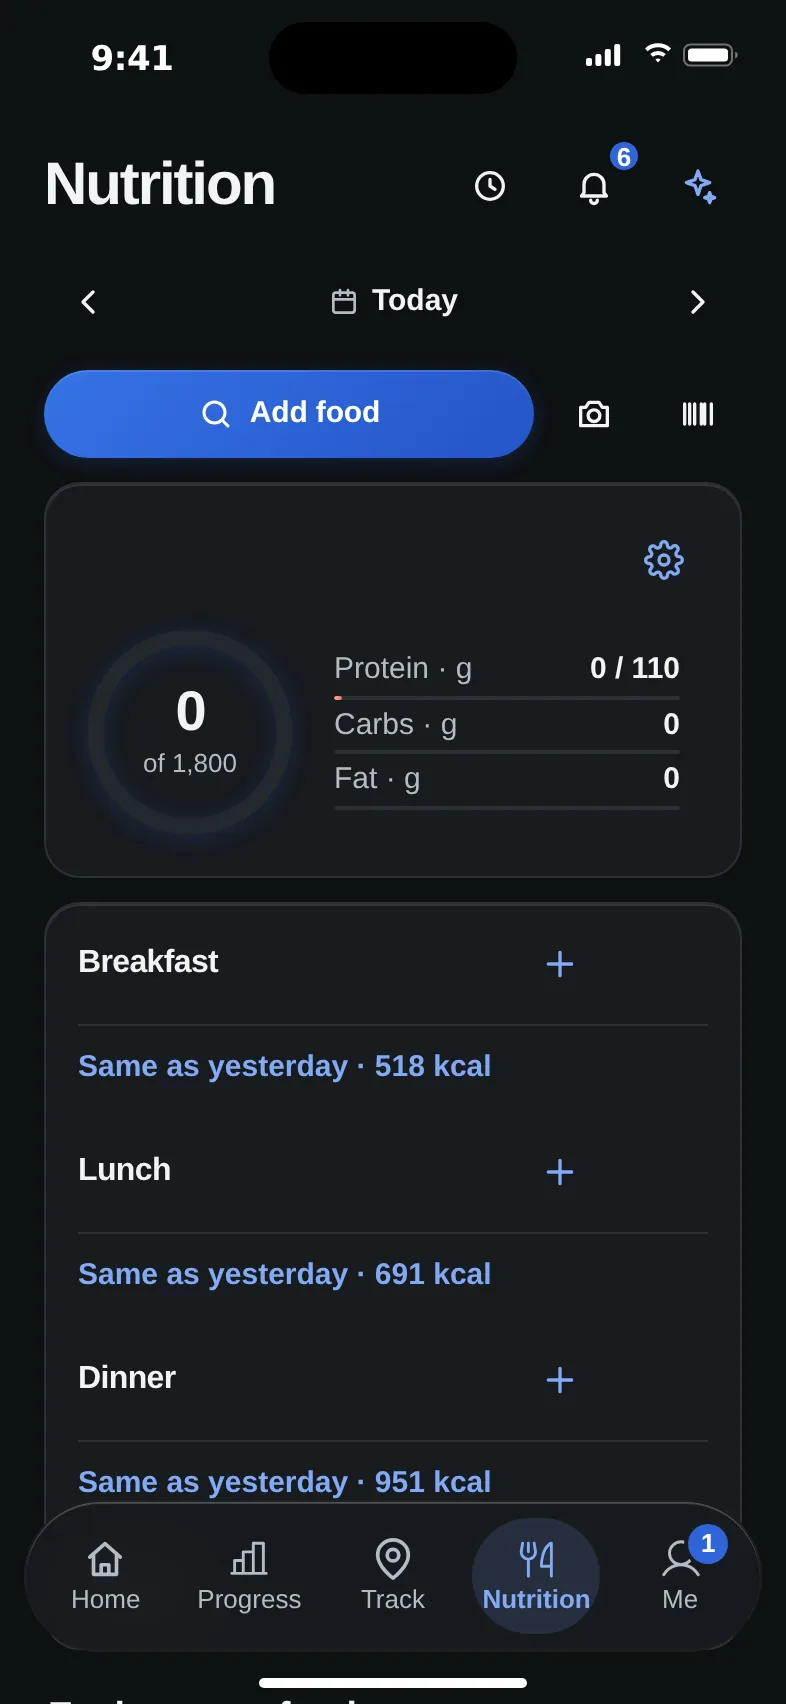
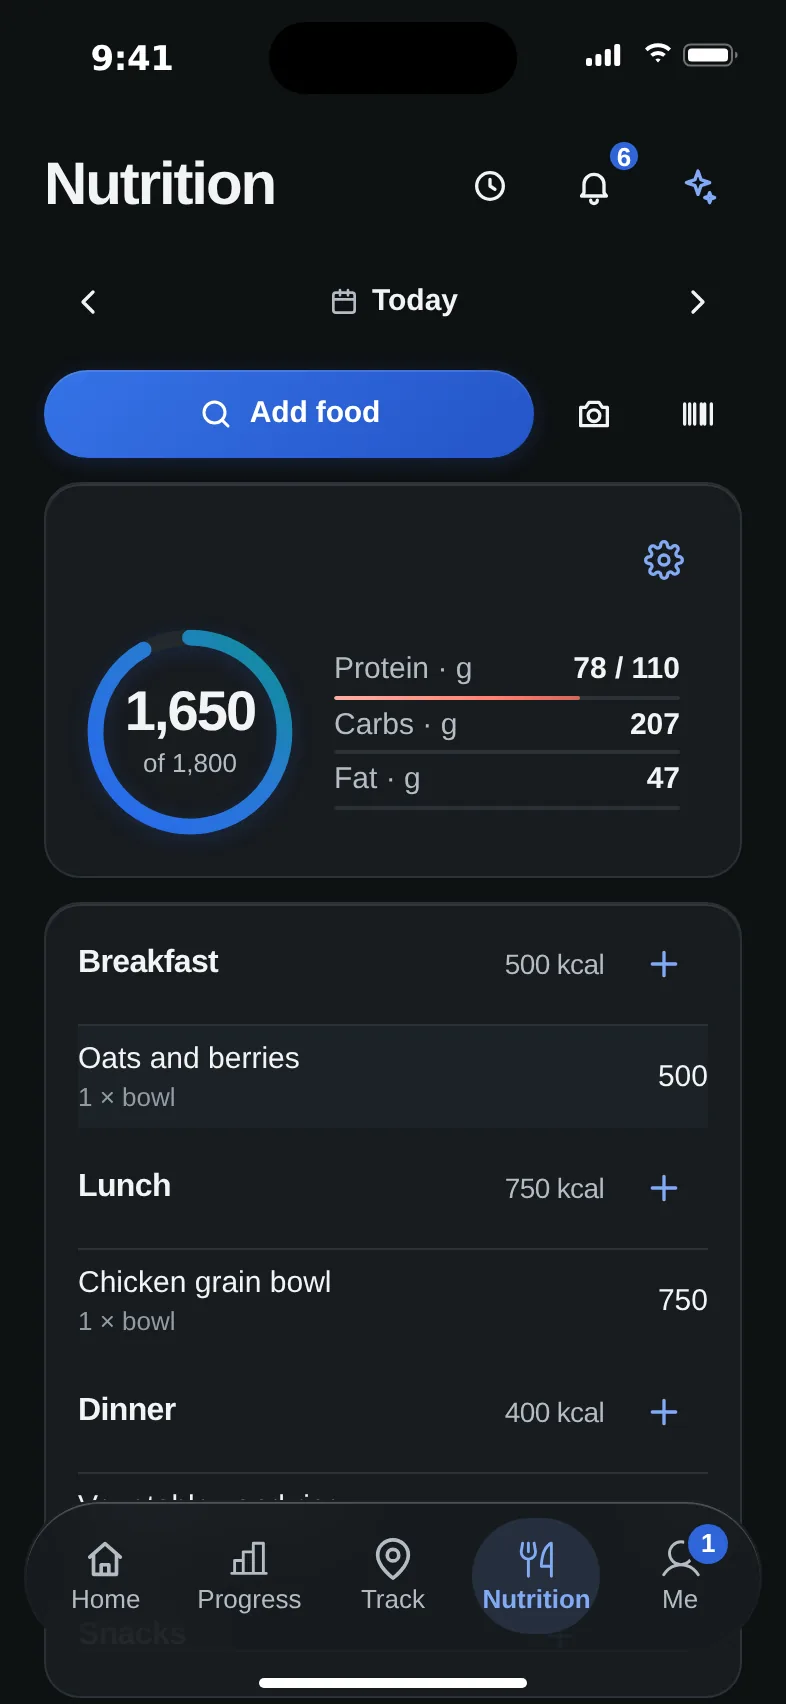
site: add food, training and Kit proof to Home

diff --git a/site/index.html b/site/index.html
@@ -23,7 +23,7 @@
 <link rel="preconnect" href="https://fonts.gstatic.com" crossorigin>
 <link rel="stylesheet" href="https://fonts.googleapis.com/css2?family=Figtree:wght@400;500;600&family=JetBrains+Mono:wght@400;500&display=swap">
 <link rel="stylesheet" href="assets/theme.css?v=9">
-<link rel="stylesheet" href="assets/site.css?v=27">
+<link rel="stylesheet" href="assets/site.css?v=28">
 </head>
 <body class="website-tour home-page">
 <a class="skip-link" href="#main">Skip to content</a>
@@ -54,15 +54,12 @@
 
 <main id="main">
 <section class="home-hero" aria-labelledby="home-title"><div class="wrap home-hero-grid"><div class="home-hero-copy"><span class="eyebrow">Food and training, one app</span><h1 id="home-title">What you eat. How you train. One picture.</h1><p class="lede">Kinetta brings meals and workouts together, with Kit to help make sense of your numbers.</p><a class="btn solid" href="compare">See how it works</a><a class="home-beta-link" href="https://testflight.apple.com/join/YAX1JnwB">Join the iPhone beta <span aria-hidden="true">→</span></a></div><div class="home-hero-art"><div class="phone-frame phone-frame--hero"><picture><source srcset="assets/shots/home-day-standin-dark.svg" media="(prefers-color-scheme: dark)"><img src="assets/shots/home-day-standin-light.svg" alt="Website stand-in composition from separate fictional Nutrition, Activity and Kit screens: a partly filled food ring, three meals, a Morning Run, and a Kit note." width="393" height="852"></picture></div><p class="standin-caption">Stand-in scene · composed from separate app screens</p></div></div></section>
-<section class="home-story" aria-labelledby="story-title"><div class="wrap home-story-grid"><div class="story-pin" aria-live="polite"><div class="phone-frame phone-frame--story"><picture><source data-story-dark srcset="assets/shots/dark-feed.webp" media="(prefers-color-scheme: dark)"><img data-story-screen src="assets/shots/light-feed.webp" alt="Fictional Kinetta Home feed with a varied week and a Morning Run." width="786" height="1704"></picture></div></div><div class="story-steps"><h2 id="story-title">See the whole picture.</h2>
-<article class="story-step is-visible" id="story-feed" data-screen="feed"><div><span class="eyebrow">Feed</span><h3>Review a workout</h3><p>The route, then the numbers.</p></div><div class="step-phone"><div class="phone-frame"><picture><source srcset="assets/shots/dark-feed.webp" media="(prefers-color-scheme: dark)"><img src="assets/shots/light-feed.webp" alt="Fictional Kinetta Home feed with a varied week and a Morning Run." width="786" height="1704" loading="lazy"></picture></div></div></article>
-<article class="story-step" id="story-activity" data-screen="activity"><div><span class="eyebrow">Activity</span><h3>Map first. Numbers below.</h3><p>Open a saved workout to see its route, time and pace.</p></div><div class="step-phone"><div class="phone-frame"><picture><source srcset="assets/shots/dark-activity.webp" media="(prefers-color-scheme: dark)"><img src="assets/shots/light-activity.webp" alt="Fictional Kinetta Activity detail with a Morning Run map and workout numbers." width="786" height="1704" loading="lazy"></picture></div></div></article>
-<article class="story-step" id="story-food" data-screen="food"><div><span class="eyebrow">Food</span><h3>Say what you ate.</h3><p>Kit turns a short note into a reviewable meal and weigh-in.</p><div class="kit-demo" data-kit-demo><p class="kit-line" data-kit-line>2 eggs and toast, weighed 165 this morning</p><p class="kit-response" data-kit-response>Review the foods and the weigh-in before you save.</p><button class="text-button" type="button" data-kit-replay>Replay chat</button></div></div><div class="step-phone"><div class="phone-frame"><picture><source srcset="assets/shots/dark-talk.webp" media="(prefers-color-scheme: dark)"><img src="assets/shots/light-talk.webp" alt="Fictional Kinetta Nutrition screen with a Kit food conversation." width="786" height="1704" loading="lazy"></picture></div></div></article>
-<article class="story-step" id="story-progress" data-screen="progress"><div><span class="eyebrow">Progress</span><h3>Watch the trend move.</h3><p>Switch time range or sport without leaving the chart.</p></div><div class="step-phone"><div class="phone-frame"><picture><source srcset="assets/shots/dark-progress.webp" media="(prefers-color-scheme: dark)"><img src="assets/shots/light-progress.webp" alt="Fictional Kinetta Progress chart with weekly running totals." width="786" height="1704" loading="lazy"></picture></div></div></article>
-<article class="story-step" id="story-achievements" data-screen="achievements"><div><span class="eyebrow">Achievements</span><h3>Keep the next badge in sight.</h3><p>Earned levels stay bright while the next goal fills in as you scroll.</p><div class="achievement-mini" data-achievements><div><span>Run · Marathon</span><b><i data-achievement-bar style="--fill:0%"></i></b></div><div><span>Workouts · Grove</span><b><i data-achievement-bar style="--fill:0%"></i></b></div></div></div><div class="step-phone"><div class="phone-frame"><picture><source srcset="assets/shots/dark-profile.webp" media="(prefers-color-scheme: dark)"><img src="assets/shots/light-profile.webp" alt="Fictional Kinetta profile with weekly totals and featured achievements." width="786" height="1704" loading="lazy"></picture></div></div></article></div></div></section>
-<section class="progress-demo" id="progress-demo" aria-labelledby="progress-title"><div class="wrap"><div class="progress-demo-copy"><span class="eyebrow">Interactive demo</span><h2 id="progress-title">Find your rhythm.</h2><p>Change the range or sport. The numbers follow.</p></div><div class="progress-demo-mount" data-progress-demo-mount aria-label="Progress chart demo"></div></div></section>
-<div hidden>Log what you eat Every food and amount, with daily totals. Choose who sees your workouts. Set a default, or change one workout.</div>
-<section class="tour-final"><div class="wrap"><h2>Start tracking.</h2><a class="btn solid" href="https://login.kinetta.app/signup">Get started</a></div></section>
+<section class="home-proof" aria-labelledby="proof-title"><div class="wrap"><header class="home-section-head"><span class="eyebrow">Food and training</span><h2 id="proof-title">A full day, from meal to mile.</h2></header><div class="home-proof-grid">
+<article class="home-proof-card" id="home-food"><div class="home-proof-copy"><span class="eyebrow">Nutrition</span><h3>Log a meal in a sentence.</h3><p>See meals, calories and macros together as the day fills in.</p></div><div class="home-proof-phone"><div class="phone-frame"><picture><source srcset="assets/shots/dark-nutrition-filled.webp" media="(prefers-color-scheme: dark)"><img src="assets/shots/light-nutrition-filled.webp" alt="Fictional Kinetta Nutrition day with a partly filled calorie ring, meals and macro totals." width="786" height="1704" loading="lazy"></picture></div></div></article>
+<article class="home-proof-card" id="home-activity"><div class="home-proof-copy"><span class="eyebrow">Training</span><h3>Every run, with its map and splits.</h3><p>Open a saved workout to see its route, time and pace.</p></div><div class="home-proof-phone"><div class="phone-frame"><picture><source srcset="assets/shots/dark-activity-detail.webp" media="(prefers-color-scheme: dark)"><img src="assets/shots/light-activity-detail.webp" alt="Fictional Kinetta Activity detail showing a route map, run stats and splits." width="786" height="1704" loading="lazy"></picture></div></div></article>
+</div></div></section>
+<section class="home-kit-chat" aria-labelledby="kit-food-title"><div class="wrap home-feature-split"><div class="home-feature-copy"><span class="eyebrow">Kit food chat</span><h2 id="kit-food-title">Tell Kit what you ate.</h2><p>Describe food and weight in one message. Review both before adding them.</p></div><div class="home-feature-phone"><div class="phone-frame"><picture><source srcset="assets/shots/dark-kit-food-chat.webp" media="(prefers-color-scheme: dark)"><img src="assets/shots/light-kit-food-chat.webp" alt="Fictional Kit food review with eggs, toast, a 165 pound weigh-in and an Add food and weight action." width="786" height="1704" loading="lazy"></picture></div><p class="home-shot-note">Fictional meal and weigh-in review</p></div></div></section>
+<section class="home-kit-insights" aria-labelledby="kit-insights-title"><div class="wrap home-feature-split home-feature-split--reverse"><div class="home-feature-copy"><span class="eyebrow">Kit insights</span><h2 id="kit-insights-title">Kit connects the dots.</h2><p>Ask about your recorded workouts, strength and nutrition. Kit explains what the records can show.</p><div class="home-kit-prompts"><h3>Try asking</h3><ul><li>Am I improving?</li><li>Look at my consistency</li><li>Choose a focus</li></ul></div></div><div class="home-feature-phone"><div class="phone-frame"><picture><source srcset="assets/shots/dark-kit-insight-progress.webp" media="(prefers-color-scheme: dark)"><img src="assets/shots/light-kit-insight-progress.webp" alt="Fictional Kit progress conversation comparing the current run week with recent recorded weeks." width="786" height="1704" loading="lazy"></picture></div><p class="home-shot-note">Fictional Kit example with demo records</p></div></div></section>
 </main>
 
 <footer>
@@ -75,8 +72,7 @@
     </div>
   </div>
 </footer>
-<script src="assets/home.js?v=1" defer></script>
-<script src="assets/progress-demo.js?v=1" defer></script>
+<script src="assets/home.js?v=2" defer></script>
 <script src="assets/zoom.js?v=4" defer></script>
 <script src="assets/daily-preview.js?v=2" defer></script>
 </body>

diff --git a/dev/screenshots/take.js b/dev/screenshots/take.js
@@ -10,6 +10,8 @@ const SCREENSHOT_CLOCK = require('./fixture-time.json');
 const SHOTS = require('./scenes.json');
 // ONLY=lift,liftex takes just those (new shots, without retaking every other picture)
 const ONLY = process.env.ONLY ? process.env.ONLY.split(',') : null;
+const MAP_SHOTS = new Set(['home-feed','activity-detail','feed','activity','activity-splits','route']);
+const NEEDS_MAP = !ONLY || ONLY.some(name => MAP_SHOTS.has(name));
 const W = 393, H = 852, TOP = 59, BOTTOM = 34;
 async function enableKitForDemo(page) {
   // Kit requires the person's explicit opt-in; this is only the fictional screenshot account.
@@ -161,19 +163,21 @@ async function closeCaptureContext(context) {
     const ctx = await browser.newContext({viewport: {width: W, height: H}, deviceScaleFactor: 2, colorScheme: scheme,
       timezoneId: SCREENSHOT_CLOCK.timezone});
     let foodChatCtx = null, foodChatPage = null, foodRepeatCtx = null, foodRepeatPage = null;
-    const basemap = await (await ctx.request.get(B+'/api/map-config')).json();
-    if(!['pmtiles','vector'].includes(basemap.kind))throw Error('Capture needs an operator-controlled vector basemap');
-    // The public archive admits the published app origin. Adapt only CORS for this local demo;
-    // the range bytes and map renderer stay unchanged, and no production setting is edited.
-    const archiveOrigin = new URL(basemap.url).origin;
-    const publishedOrigin = process.env.KINETTA_SCREENSHOT_MAP_ORIGIN || 'https://login.kinetta.app';
-    await ctx.route(archiveOrigin+'/**',async route=>{
-      const request=route.request();
-      if(!['GET','HEAD'].includes(request.method())||basemap.kind==='pmtiles'&&request.method()==='GET'&&!request.headers().range)return route.abort();
-      const response=await route.fetch({headers:{...request.headers(),origin:publishedOrigin,referer:publishedOrigin+'/'}});
-      if(!response.ok())throw Error('Approved capture map source returned HTTP '+response.status());
-      await route.fulfill({response,headers:{...response.headers(),'access-control-allow-origin':new URL(B).origin,'access-control-expose-headers':'content-range,content-length,etag'}});
-    });
+    if(NEEDS_MAP){
+      const basemap = await (await ctx.request.get(B+'/api/map-config')).json();
+      if(!['pmtiles','vector'].includes(basemap.kind))throw Error('Capture needs an operator-controlled vector basemap');
+      // The public archive admits the published app origin. Adapt only CORS for this local demo;
+      // the range bytes and map renderer stay unchanged, and no production setting is edited.
+      const archiveOrigin = new URL(basemap.url).origin;
+      const publishedOrigin = process.env.KINETTA_SCREENSHOT_MAP_ORIGIN || 'https://login.kinetta.app';
+      await ctx.route(archiveOrigin+'/**',async route=>{
+        const request=route.request();
+        if(!['GET','HEAD'].includes(request.method())||basemap.kind==='pmtiles'&&request.method()==='GET'&&!request.headers().range)return route.abort();
+        const response=await route.fetch({headers:{...request.headers(),origin:publishedOrigin,referer:publishedOrigin+'/'} });
+        if(!response.ok())throw Error('Approved capture map source returned HTTP '+response.status());
+        await route.fulfill({response,headers:{...response.headers(),'access-control-allow-origin':new URL(B).origin,'access-control-expose-headers':'content-range,content-length,etag'}});
+      });
+    }
     const page = await ctx.newPage();
     await page.addInitScript(() => { window.__KINETTA_SCREENSHOT_MODE__ = true; });
     await page.clock.setFixedTime(new Date(SCREENSHOT_CLOCK.instant));
@@ -210,6 +214,26 @@ async function closeCaptureContext(context) {
     });
     for (const [name, path, opt = {}] of SHOTS) {
       if (ONLY && !ONLY.includes(name)) continue;
+      const kitInsightRoute = /\/api\/coach\/conversation(?:\/.*)?(?:\?.*)?$/;
+      const kitInsightFixture = name === 'kit-insight-progress';
+      if (kitInsightFixture) await page.route(kitInsightRoute, async route => {
+        const request = route.request(), url = new URL(request.url());
+        if (request.method() === 'POST' && url.pathname === '/api/coach/conversation/visits') {
+          const visit_id = request.postDataJSON().visit_id;
+          return route.fulfill({json: {generation: '00000000-0000-4000-8000-000000001049', visit_id, ready: true}});
+        }
+        if (request.method() === 'GET' && url.pathname === '/api/coach/conversation') {
+          const visit_id = url.searchParams.get('visit_id');
+          return route.fulfill({json: {generation: '00000000-0000-4000-8000-000000001049', visit_id, before: null, ready: true,
+            messages: [{id: 1, client_id: '1049-progress-insight', generation: '00000000-0000-4000-8000-000000001049', visit_id,
+              question: 'Am I improving?', context: {screen: 'progress'}, state: 'answered', error: null,
+              answer: {interpretation: 'Your latest run total is below your recent average; this chart also shows stronger weeks. One week alone cannot establish a lasting trend.',
+                facts: [{label: 'This week · Run', value: '10.8 mi'}, {label: 'Weekly average · Run', value: '20.6 mi'}, {label: 'Best week · Run', value: '27.9 mi'}],
+                limitations: ['Only recorded workouts are included.'], actions: []}, created: '2026-11-13T14:00:00Z'}]}});
+        }
+        if (request.method() === 'POST' && url.pathname.endsWith('/end')) return route.fulfill({json: {ok: true}});
+        return route.fulfill({status: 404, json: {detail: 'Unneeded screenshot fixture request.'}});
+      });
       if (opt.foodChat === 'ready') {
         const demo = await openFoodDemo(`zz_test_658_chat_${scheme}`, scheme);
         foodChatCtx = demo.context;
@@ -298,8 +322,22 @@ async function closeCaptureContext(context) {
         await foodRepeatPage.screenshot({path: `${OUT}/${scheme}-${name}.png`});
         continue;
       }
+      if (kitInsightFixture) await page.evaluate(() => {
+        App.me.ai_ok = true; App.me.ai_paused = false; App.me.kit_chat = true; App.me.coach = true;
+        App.me.ai_access ||= {}; App.me.ai_access.coach = {available: true, entitled: true};
+      });
       await page.evaluate((p) => { document.querySelectorAll('.scrim').forEach((x) => x.remove()); document.body.classList.remove('has-sheet'); window.scrollTo(0, 0); go(p); }, ids[path] || path);   // no sheet left open from the shot before
       await page.waitForTimeout(1500);
+      if (name === 'nutrition-filled') {
+        await page.locator('.calorie-ring[aria-valuetext="1,650 of 1,800 calories"]').waitFor({state: 'visible', timeout: 12000});
+        await page.getByText('Oats and berries', {exact: true}).waitFor({state: 'visible'});
+        await page.getByText('Chicken grain bowl', {exact: true}).waitFor({state: 'visible'});
+        await page.getByText('Vegetables and rice', {exact: true}).waitFor({state: 'visible'});
+      }
+      if (kitInsightFixture) {
+        await page.locator('#kit-messages .kit-answer').filter({hasText: 'Your latest run total'}).waitFor({state: 'visible'});
+        if ((await page.locator('#kit-status').innerText()).trim()) throw Error('Kit insight screenshot should not show a stale-chat warning.');
+      }
       if(name==='activity'||name==='activity-detail'){
         const title=page.locator('.d-title h1');await title.waitFor({state:'visible'});
         const actual=(await title.innerText()).trim();
@@ -451,6 +489,7 @@ async function closeCaptureContext(context) {
       if(opt.tab){const heading=page.locator(`#activity-pane-${opt.tab} h2`).first();await heading.waitFor({state:'visible'});await heading.evaluate(el=>window.scrollBy(0,el.getBoundingClientRect().top-390));}
       await page.evaluate(chrome, scheme === 'dark'); await page.evaluate(()=>new Promise(resolve=>requestAnimationFrame(()=>requestAnimationFrame(resolve))));
       await page.screenshot({path: `${OUT}/${scheme}-${name}.png`});
+      if (kitInsightFixture) await page.unroute(kitInsightRoute);
       if (opt.lift) await page.evaluate(() => fetch('/api/activities/' + window.__liftId, {method: 'DELETE', headers: {'Content-Type': 'application/json'}}));
       // Remove only what this fictional review story added (entries, saved foods, messages) so the next pass and
       // the other screenshots start from the same demo data.

diff --git a/site/assets/site.css b/site/assets/site.css
@@ -952,3 +952,39 @@ header.top .signup { display:flex;align-items:center; }
  .home-page .home-hero-copy > .btn { margin-top:19px; }
  .home-page .phone-frame--hero { width:min(280px,76vw); }
 }
+.home-page .home-proof,.home-page .home-kit-chat,.home-page .home-kit-insights { scroll-margin-top:72px; padding-block:var(--home-section-space); }
+.home-page .home-section-head { max-width:760px; margin:0 auto clamp(28px,5vw,52px); text-align:center; }
+.home-page .home-section-head .eyebrow,.home-page .home-proof-copy .eyebrow,.home-page .home-feature-copy > .eyebrow { display:block; margin-bottom:12px; color:var(--brand); font-size:13px; font-weight:700; letter-spacing:.13em; text-transform:uppercase; }
+.home-page .home-section-head h2,.home-page .home-feature-copy h2 { font-size:clamp(32px,4.5vw,56px); line-height:1.05; letter-spacing:-.025em; text-wrap:balance; }
+.home-page .home-proof-grid { display:grid; grid-template-columns:repeat(2,minmax(0,1fr)); gap:clamp(18px,3vw,36px); align-items:stretch; }
+.home-page .home-proof-card { display:grid; grid-template-rows:auto 1fr; justify-items:center; gap:24px; min-width:0; padding:clamp(20px,3vw,34px); border-radius:28px; background:var(--card); box-shadow:0 1px 2px rgba(15,24,32,.06),0 10px 28px rgba(15,24,32,.08); text-align:center; }
+.home-page .home-proof-copy { max-width:34ch; }
+.home-page .home-proof-copy h3 { font-size:clamp(21px,2.5vw,30px); line-height:1.12; letter-spacing:-.02em; }
+.home-page .home-proof-copy p,.home-page .home-feature-copy > p { max-width:42ch; margin-top:12px; color:var(--ink2); font-size:17px; line-height:1.5; }
+.home-page .home-proof-phone,.home-page .home-feature-phone { display:grid; justify-items:center; align-content:start; gap:12px; min-width:0; }
+.home-page .home-proof-phone .phone-frame { width:min(300px,100%); }
+.home-page .home-proof-phone img,.home-page .home-feature-phone img { display:block; width:100%; height:auto; }
+.home-page .home-feature-split { display:grid; grid-template-columns:minmax(0,.9fr) minmax(280px,.72fr); gap:clamp(32px,8vw,112px); align-items:center; }
+.home-page .home-feature-copy { max-width:560px; }
+.home-page .home-feature-phone .phone-frame { width:min(320px,100%); }
+.home-page .home-shot-note { color:var(--ink2); font-size:13px; line-height:1.35; text-align:center; }
+.home-page .home-kit-insights { background:color-mix(in srgb,var(--brand) 5%,var(--bg)); }
+.home-page .home-feature-split--reverse .home-feature-copy { grid-column:2; grid-row:1; }
+.home-page .home-feature-split--reverse .home-feature-phone { grid-column:1; grid-row:1; }
+.home-page .home-kit-prompts { margin-top:24px; }
+.home-page .home-kit-prompts h3 { margin-bottom:6px; font-size:15px; font-weight:600; }
+.home-page .home-kit-prompts ul { margin:0; padding:0; list-style:none; }
+.home-page .home-kit-prompts li { min-height:44px; display:flex; align-items:center; border-bottom:1px solid var(--line); color:var(--ink); font-size:16px; font-weight:500; }
+.home-page .home-kit-prompts li:last-child { border-bottom:0; }
+@media (max-width:700px) {
+ .home-page .home-section-head { margin-bottom:28px; text-align:left; }
+ .home-page .home-proof-grid { grid-template-columns:1fr; gap:18px; }
+ .home-page .home-proof-card { grid-template-columns:1fr; grid-template-rows:auto auto; gap:18px; padding:20px 18px; text-align:left; }
+ .home-page .home-proof-copy h3 { font-size:20px; }
+ .home-page .home-proof-copy p { font-size:15px; }
+ .home-page .home-proof-phone .phone-frame { width:min(250px,78vw); }
+ .home-page .home-feature-split { grid-template-columns:1fr; gap:26px; }
+ .home-page .home-feature-split--reverse .home-feature-copy,.home-page .home-feature-split--reverse .home-feature-phone { grid-column:1; grid-row:auto; }
+ .home-page .home-feature-phone .phone-frame { width:min(280px,78vw); }
+ .home-page .home-feature-copy h2 { font-size:clamp(32px,9vw,42px); }
+}

diff --git a/dev/screenshots/stage.py b/dev/screenshots/stage.py
@@ -80,11 +80,15 @@ for login in ('casey','taylor'):
     friend=person(login,PW);friend('POST','/api/friends',{'login':'alex'});alex('POST','/api/friends/'+login+'/accept')
 assert alex('GET','/api/me')['friend_count']>=3
 alex('PUT', '/api/sharing', {'default': 'friends'})
-# Three meals on the captured day: the two seeded meals plus a small, explicit
-# dinner keep the diary ring partly filled rather than empty or complete.
-alex('POST', '/api/food/entries', [{'day': str(screenshot_today), 'meal': 'dinner',
-    'name': 'Apple and almond butter', 'amount': 1, 'unit': 'serving', 'kcal': 250,
-    'protein_g': 6, 'carbs_g': 28, 'fat_g': 14, 'fiber_g': 5}])
+# A complete, fictional day on the captured date. The local screenshot clock
+# can differ from ambient time, so seed every row directly on screenshot_today.
+alex('POST', '/api/food/entries', [
+    {'day': str(screenshot_today), 'meal': 'breakfast', 'name': 'Oats and berries', 'amount': 1, 'unit': 'bowl', 'kcal': 500,
+     'protein_g': 22, 'carbs_g': 70, 'fat_g': 14, 'fiber_g': 11},
+    {'day': str(screenshot_today), 'meal': 'lunch', 'name': 'Chicken grain bowl', 'amount': 1, 'unit': 'bowl', 'kcal': 750,
+     'protein_g': 42, 'carbs_g': 82, 'fat_g': 23, 'fiber_g': 8},
+    {'day': str(screenshot_today), 'meal': 'dinner', 'name': 'Vegetables and rice', 'amount': 1, 'unit': 'plate', 'kcal': 400,
+     'protein_g': 14, 'carbs_g': 55, 'fat_g': 10, 'fiber_g': 10}])
 last = [p for p in sorted(glob.glob(G + '/*running.gpx'))][-1]; raw = open(last, 'rb').read()
 t0 = dt.datetime.fromisoformat(re.search(rb'<time>([^<]+)</time>', raw).group(1).decode().replace('Z', '+00:00'))
 # Scheduled captures near midnight still need a workout on the displayed demo day.
